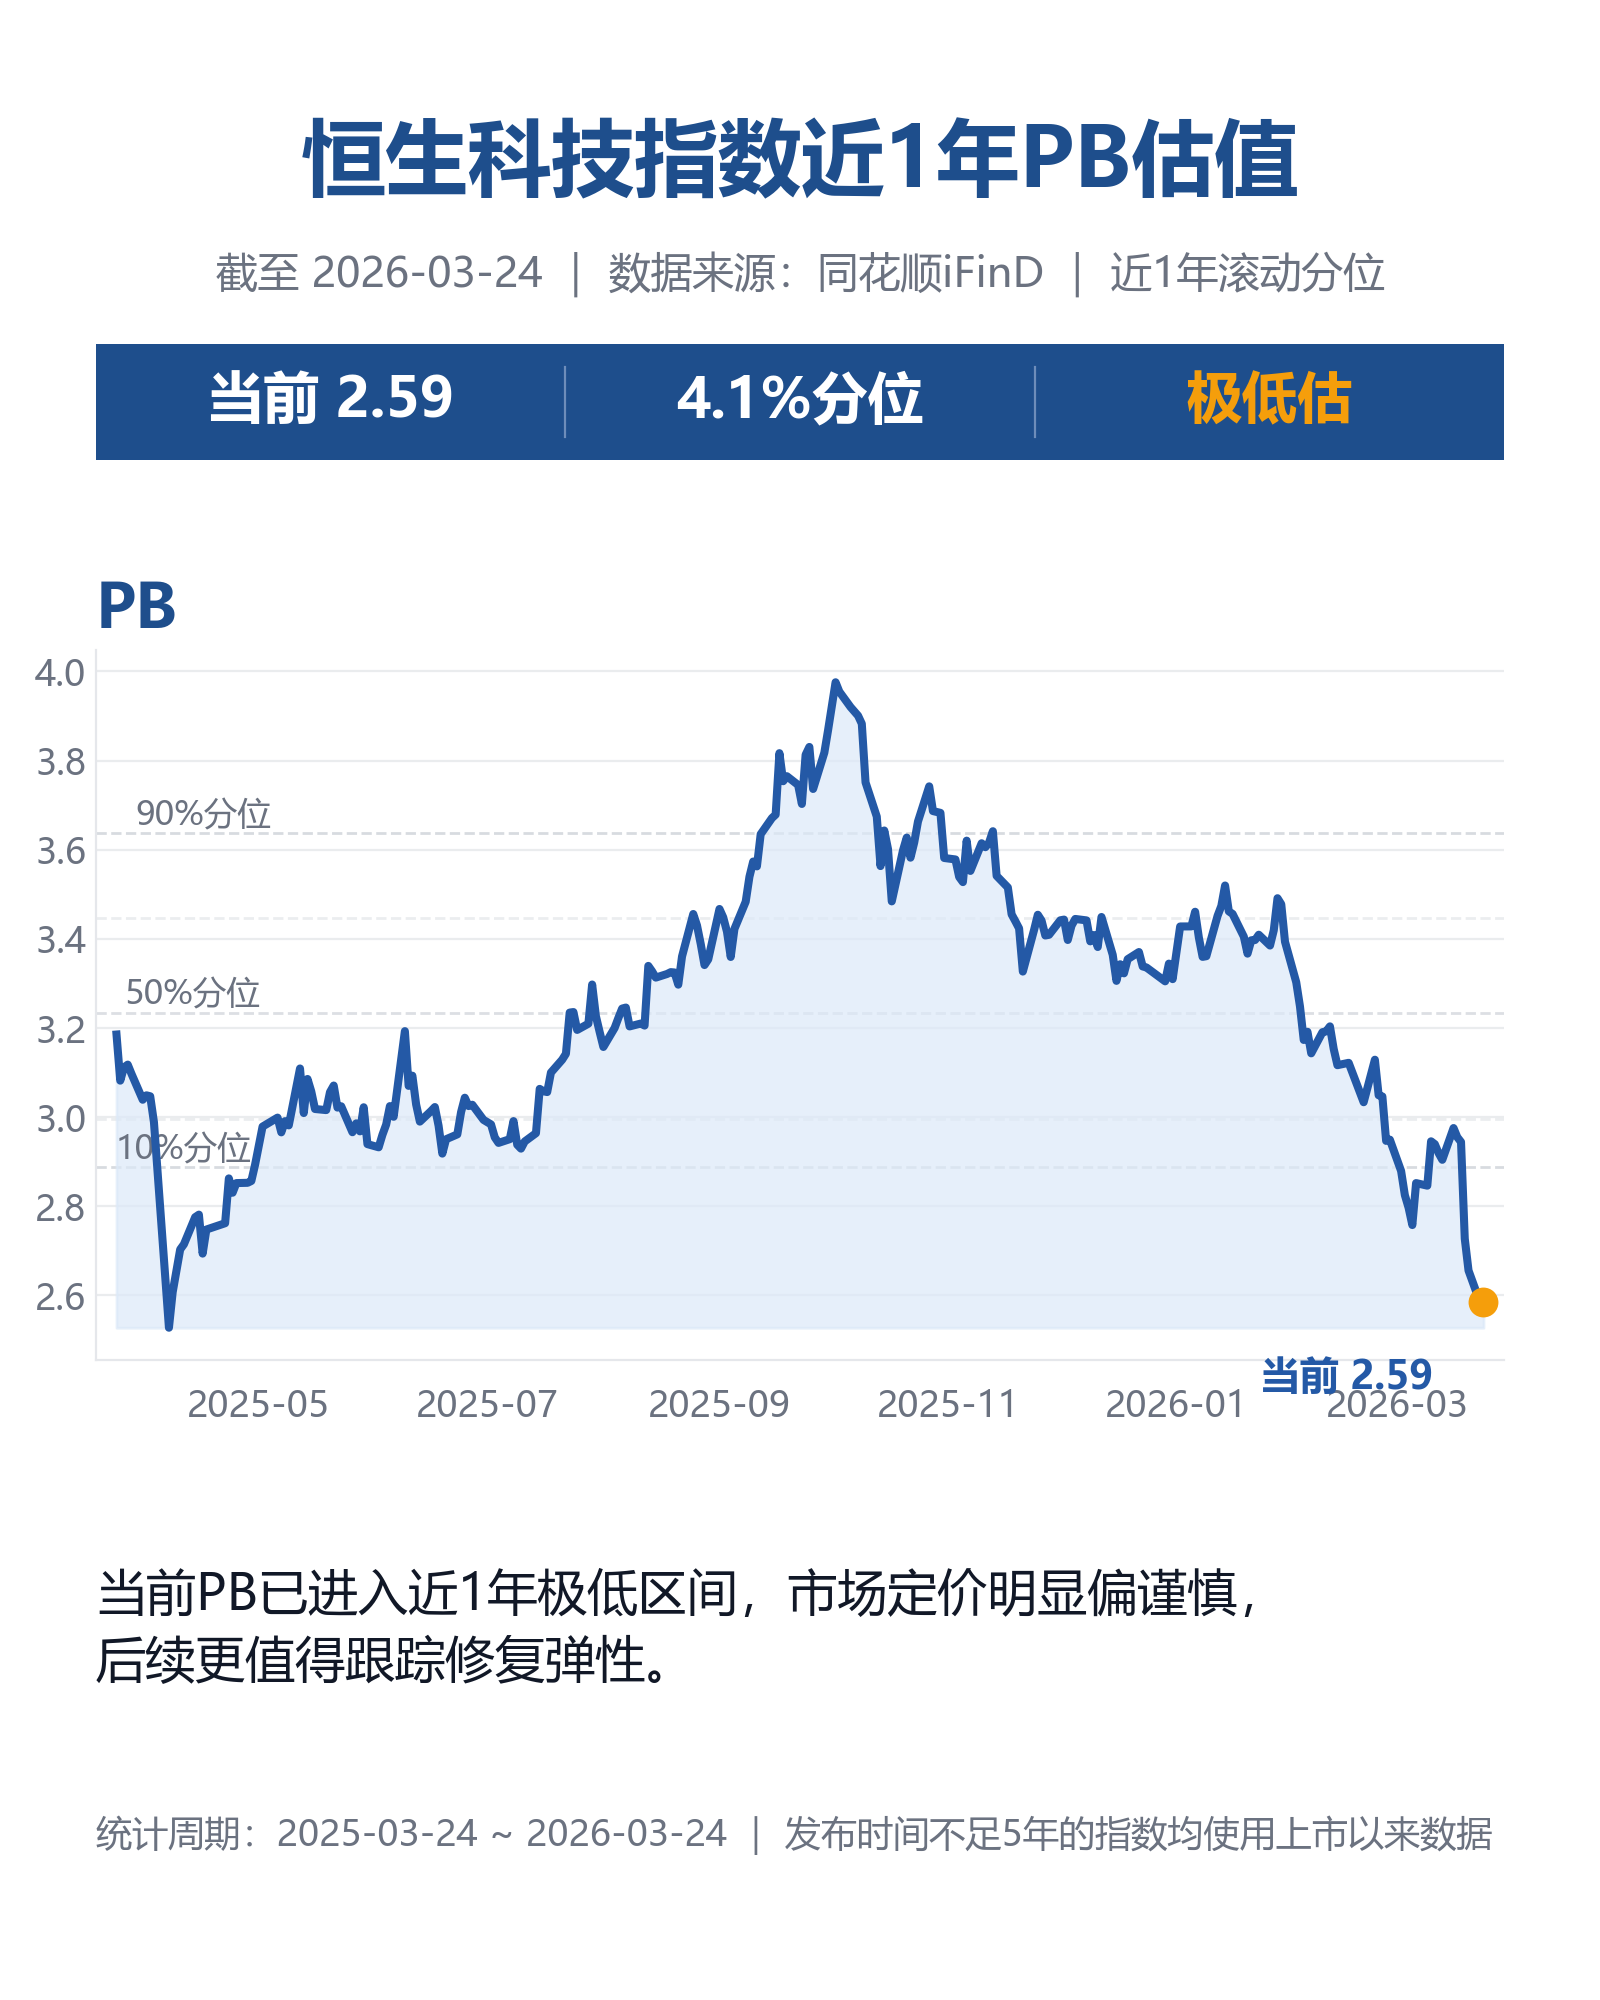
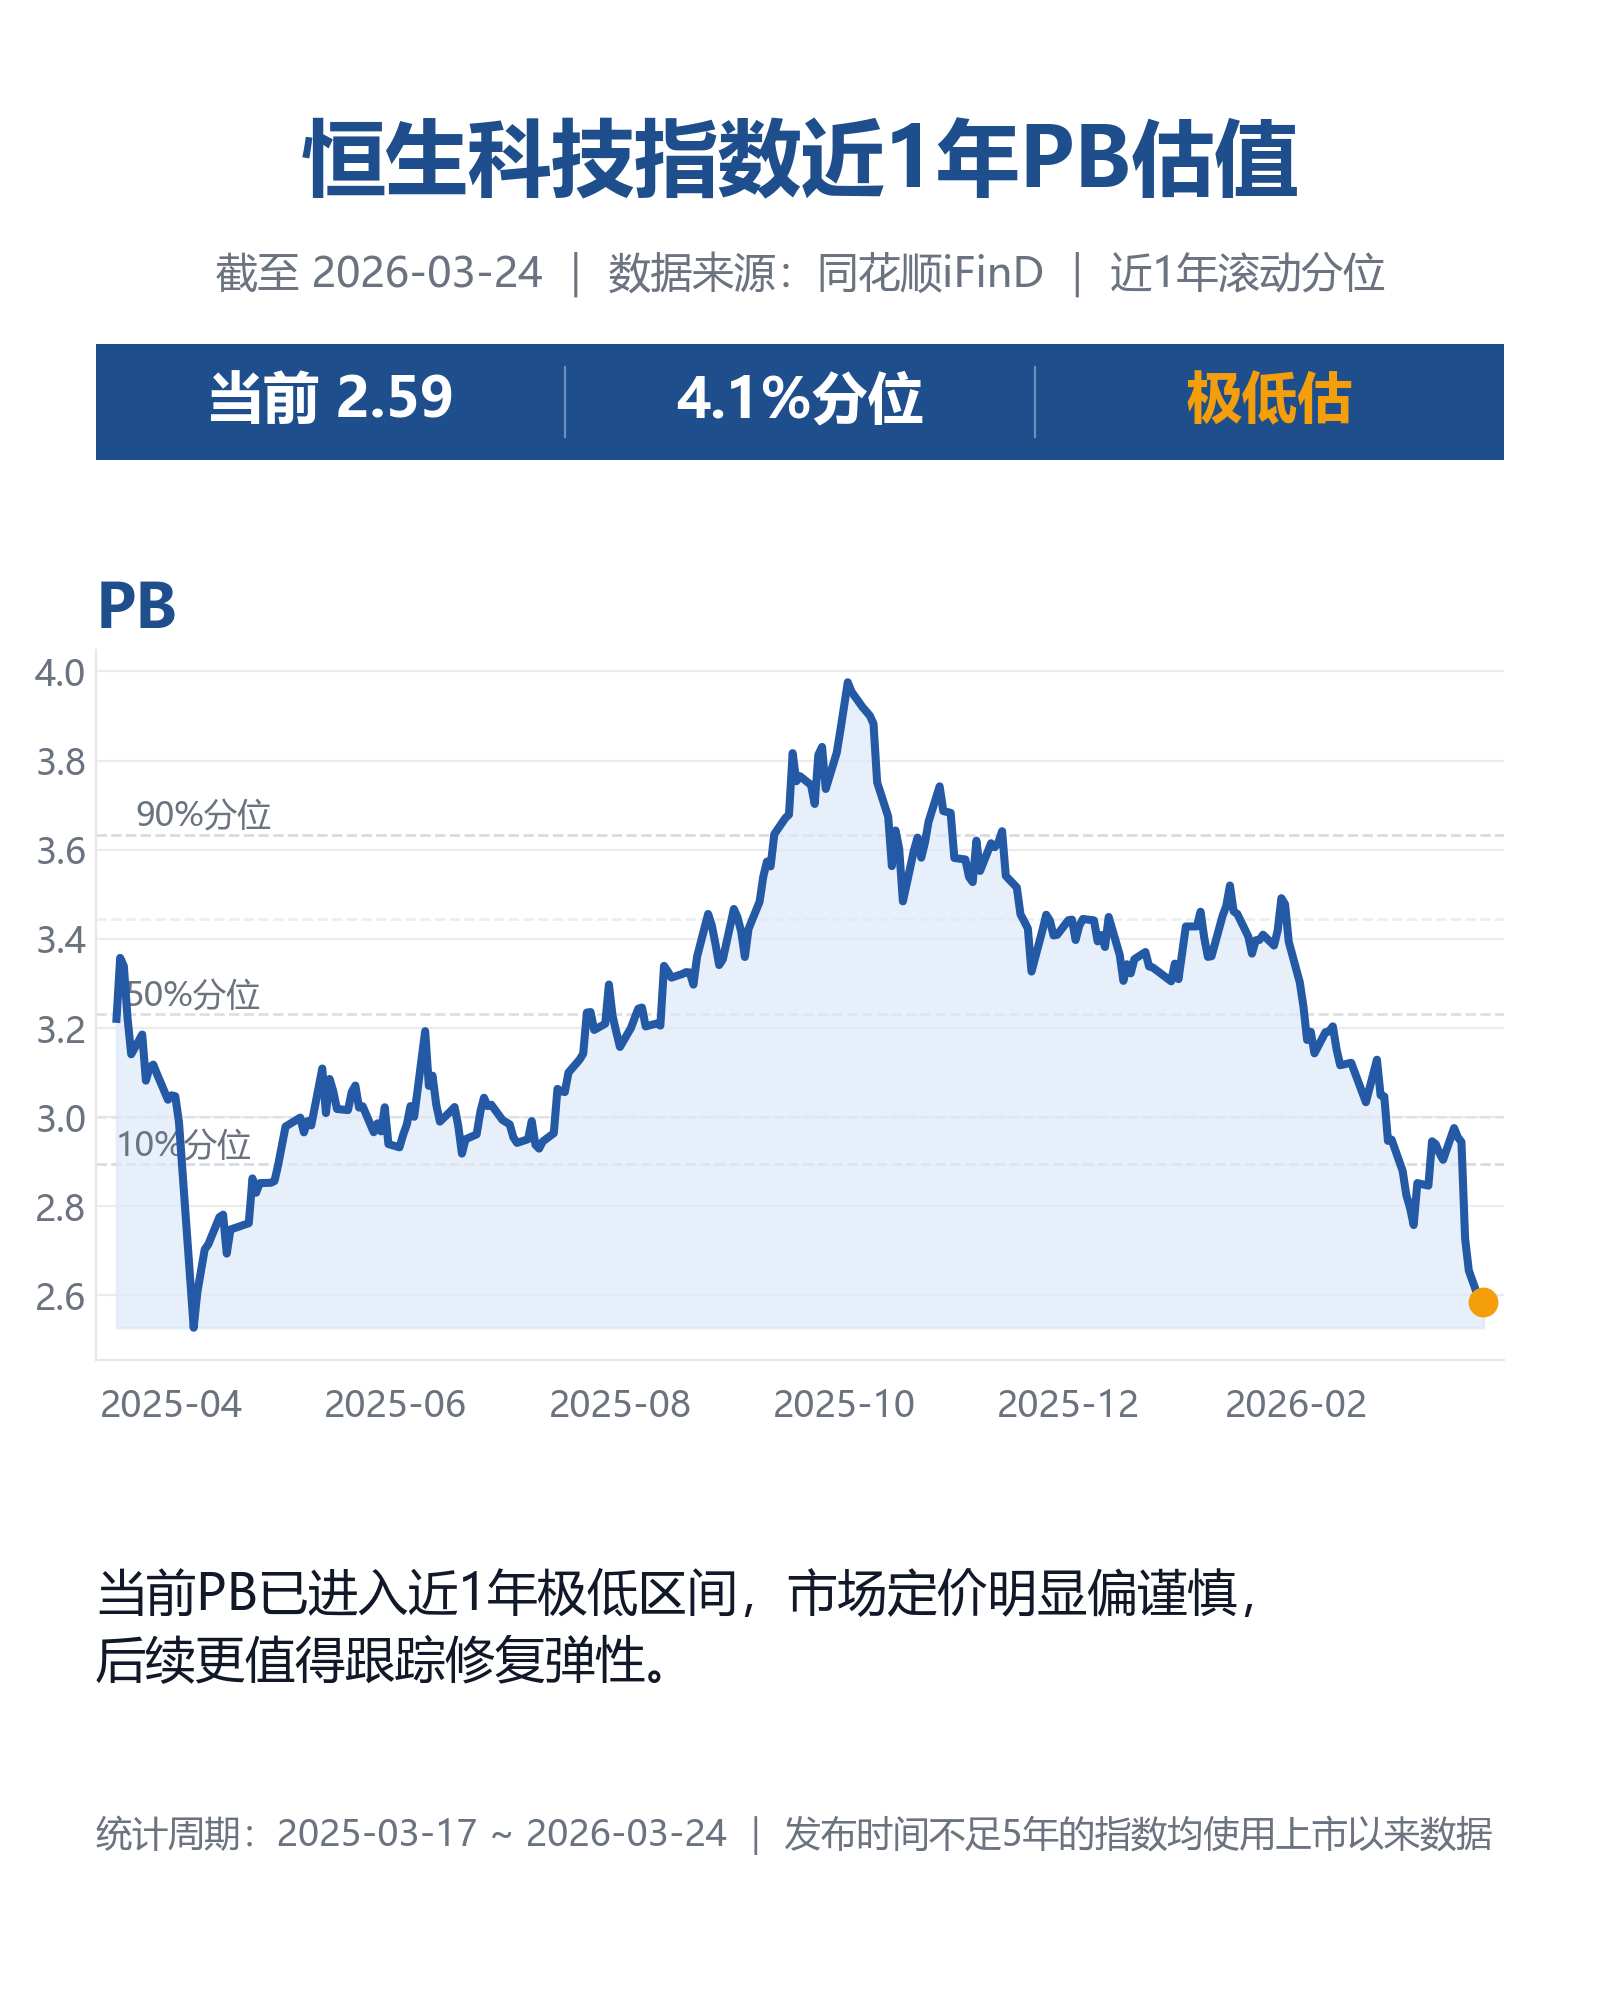
20260324 2319 删除黄点旁提示文字

diff --git a/core/exporter.py b/core/exporter.py
@@ -282,7 +282,7 @@ def export_single_indicator(
         axes["chart"],
         df,
         chart_title=indicator_name,
-        current_label=f"当前 {metrics['current_value']:.2f}",
+        current_label="",
         with_quantiles=indicator_key in {"pe", "pb"},
         adaptive_left_margin=True,
     )
@@ -336,7 +336,7 @@ def export_pe_pb_combo(
         axes["pe_chart"],
         pe_df,
         chart_title="PE",
-        current_label=f"当前 {pe_metrics['current_value']:.2f}",
+        current_label="",
         with_quantiles=True,
         chart_summary_segments=pe_segments,
         chart_summary_accent_indices=pe_accent,
@@ -345,7 +345,7 @@ def export_pe_pb_combo(
         axes["pb_chart"],
         pb_df,
         chart_title="PB",
-        current_label=f"当前 {pb_metrics['current_value']:.2f}",
+        current_label="",
         with_quantiles=True,
         chart_summary_segments=pb_segments,
         chart_summary_accent_indices=pb_accent,
@@ -358,4 +358,5 @@ def export_pe_pb_combo(
     fig.savefig(output_path, facecolor=fig.get_facecolor())
     plt.close(fig)
     return output_path
+
 

diff --git a/core/plotter.py b/core/plotter.py
@@ -195,6 +195,9 @@ def _draw_current_marker(ax, x: pd.Series, y: pd.Series, current_label: str, wit
     current_y = float(y.iloc[-1])
     ax.scatter([current_x], [current_y], color=COLORS["accent"], s=CHART["marker_size"], zorder=4)
 
+    if not current_label:
+        return
+
     ax.figure.canvas.draw()
 
     display_points = ax.transData.transform(list(zip(mdates.date2num(x), y)))
